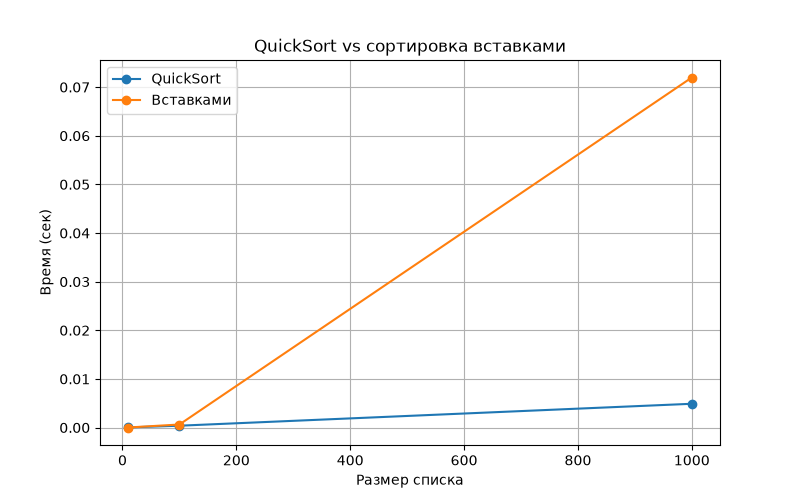
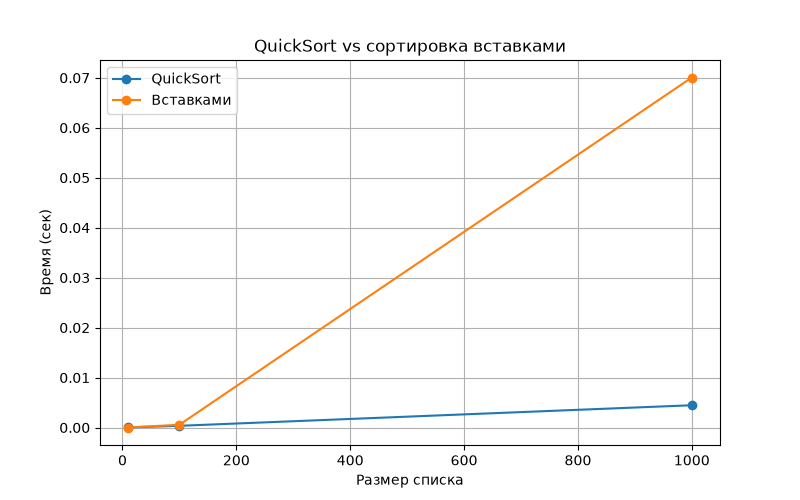
feature: description was improved

diff --git a/dz_o5.py b/dz_o5.py
@@ -81,7 +81,18 @@ print("Задание 1. Фибоначчи n=5, стек вызовов:")
 print("-> вход в функцию, <- выход (LIFO)")
 result = fibonacci(5)
 print(f"Ответ: fib(5) = {result}")
-print("Вывод: глубина стека до 5 уровней, много повторных вызовов (fib(3), fib(2)...)")
+print("Вывод: стек разворачивается в обратном порядке (LIFO). Много повторных вызовов - алгоритм медленный.")
+
+print("\nЗадание 2. Максимум (разделяй и властвуй):")
+numbers = [3, 9, 1, 7, 4]
+print(f"Список {numbers}, max = {find_max(numbers)}")
+print("Вывод: делим список пополам, ищем max слева и справа, берем большее.")
+
+print("\nЗадание 3. QuickSort:")
+unsorted = [3, 6, 8, 10, 1, 2, 1]
+print(f"Было:  {unsorted}")
+print(f"Стало: {quicksort(unsorted)}")
+print("Вывод: берем опорный элемент, делим на меньшие и большие, сортируем части рекурсивно.")
 
 print("\nЗадание 4. Сравнение QuickSort и сортировки вставками")
 
@@ -112,3 +123,4 @@ plt.title("QuickSort vs сортировка вставками")
 plt.legend()
 plt.grid(True)
 plt.savefig("graph_quicksort.png")
+print("Вывод: на маленьком списке (10) разница небольшая. На 1000 QuickSort намного быстрее вставок.")
